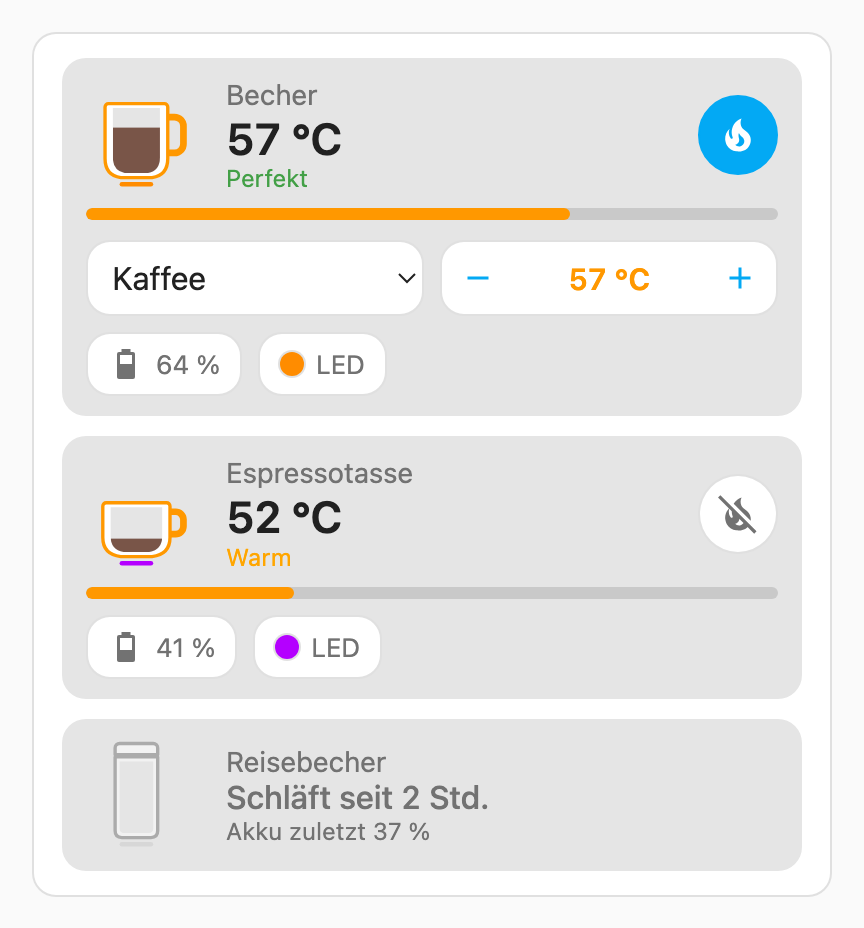
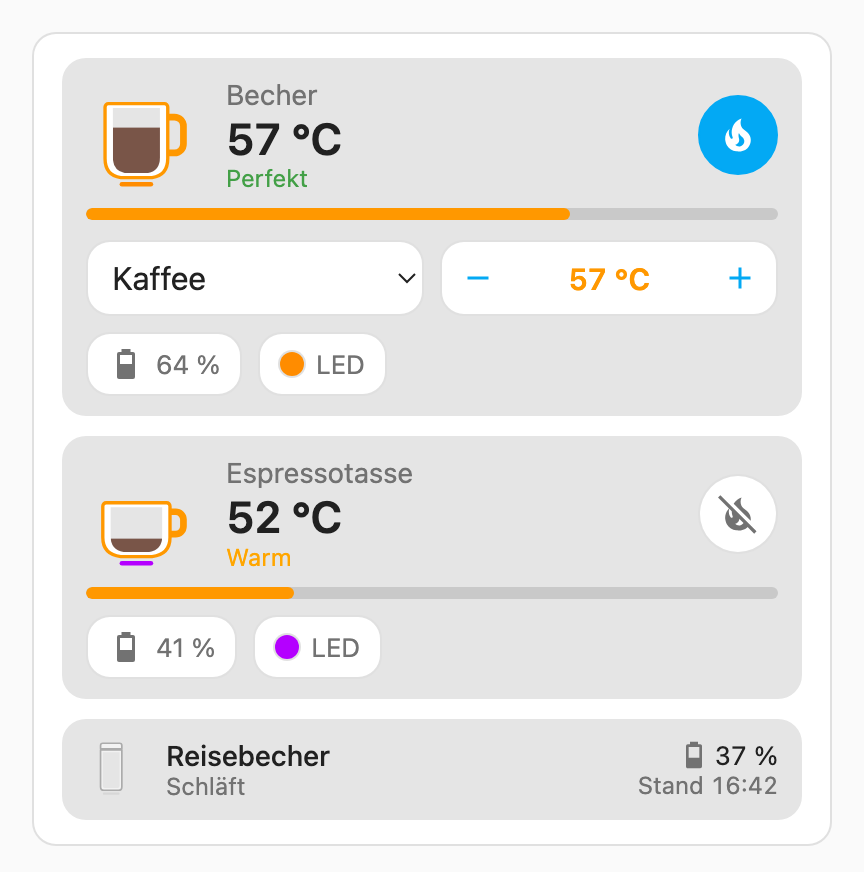
Asleep devices in one panel with the last battery level from the recorder; options show_sleeping, compact_empty, max_columns, target_step

Changed region(s): [[0.0625, 0.0619, 0.9375, 0.9289], [0.0625, 0.9599, 0.9375, 0.9908]]

diff --git a/ember-card.js b/ember-card.js
@@ -6,7 +6,7 @@
  * from the Home Assistant theme.
  */
 
-const CARD_VERSION = "0.1.0";
+const CARD_VERSION = "0.1.1";
 const PLATFORM = "ember_mug";
 const PARTS = ["picture", "level", "keep_warm", "target", "presets", "battery", "led"];
 
@@ -23,8 +23,7 @@ const TEXT = {
     st_warm_no_control: "Warm",
     st_unknown: "Connecting …",
     asleep: "Asleep",
-    asleep_for: "Asleep for {when}",
-    last_battery: "Battery was at {value}",
+    as_of: "as of {when}",
     target: "Target {value}",
     keep_warm: "Keep warm",
     keep_warm_on: "Keep warm: on",
@@ -46,7 +45,11 @@ const TEXT = {
     error: "Could not change it: {msg}",
     ed_title: "Title",
     ed_devices: "Devices (empty = all)",
-    ed_hide_sleeping: "Hide devices that are asleep",
+    ed_show_sleeping: "Show devices that are asleep",
+    ed_compact_empty: "Empty devices as a short row",
+    ed_more: "More options",
+    ed_max_columns: "Columns at most",
+    ed_target_step: "Step for the target temperature",
     ed_hide: "Hide parts",
     ed_hide_picture: "Picture",
     ed_hide_level: "Fill level",
@@ -68,8 +71,7 @@ const TEXT = {
     st_warm_no_control: "Warm",
     st_unknown: "Verbinde …",
     asleep: "Schläft",
-    asleep_for: "Schläft seit {when}",
-    last_battery: "Akku zuletzt {value}",
+    as_of: "Stand {when}",
     target: "Ziel {value}",
     keep_warm: "Warmhalten",
     keep_warm_on: "Warmhalten: an",
@@ -91,7 +93,11 @@ const TEXT = {
     error: "Änderung fehlgeschlagen: {msg}",
     ed_title: "Titel",
     ed_devices: "Geräte (leer = alle)",
-    ed_hide_sleeping: "Schlafende Geräte ausblenden",
+    ed_show_sleeping: "Schlafende Geräte zeigen",
+    ed_compact_empty: "Leere Geräte als schmale Zeile",
+    ed_more: "Weitere Einstellungen",
+    ed_max_columns: "Höchstens so viele Spalten",
+    ed_target_step: "Schrittweite der Zieltemperatur",
     ed_hide: "Teile ausblenden",
     ed_hide_picture: "Bild",
     ed_hide_level: "Füllstand",
@@ -169,6 +175,7 @@ class EmberCard extends HTMLElement {
     this._pending = {}; // deviceId → { target, at } and `${id}:led` → { rgb, at }
     this._timers = {};
     this._error = "";
+    this._lastBattery = {}; // deviceId → last battery level before it fell asleep (null = none found)
 
     this.shadowRoot.addEventListener("click", (e) => {
       const el = e.target.closest("[data-act]");
@@ -207,12 +214,23 @@ class EmberCard extends HTMLElement {
       schema: [
         { name: "title", selector: { text: {} } },
         { name: "devices", selector: { device: { multiple: true, filter: { integration: PLATFORM } } } },
-        { name: "hide_sleeping", default: false, selector: { boolean: {} } },
+        { name: "show_sleeping", default: true, selector: { boolean: {} } },
+        { name: "compact_empty", default: false, selector: { boolean: {} } },
         {
           name: "hide",
           selector: {
             select: { multiple: true, mode: "list", options: PARTS.map((p) => ({ value: p, label: uiText(`ed_hide_${p}`) })) },
           },
+        },
+        {
+          type: "expandable",
+          name: "more",
+          title: uiText("ed_more"),
+          flatten: true,
+          schema: [
+            { name: "max_columns", default: 3, selector: { number: { min: 1, max: 3, mode: "box" } } },
+            { name: "target_step", selector: { number: { min: 0.1, max: 5, step: 0.1, mode: "box" } } },
+          ],
         },
       ],
       computeLabel: (schema) => uiText(`ed_${schema.name}`),
@@ -233,8 +251,11 @@ class EmberCard extends HTMLElement {
 
   setConfig(config) {
     this._config = {
-      hide_sleeping: false,
+      compact_empty: false,
       ...config,
+      // hide_sleeping is the name from 0.1.x
+      show_sleeping: config.show_sleeping ?? !config.hide_sleeping,
+      max_columns: Math.min(3, Math.max(1, Number(config.max_columns) || 3)),
       devices: [].concat(config.devices || config.device_id || []),
       hide: [].concat(config.hide || []),
     };
@@ -245,15 +266,6 @@ class EmberCard extends HTMLElement {
   set hass(hass) {
     this._hass = hass;
     this._update();
-  }
-
-  connectedCallback() {
-    // keeps "asleep for 5 min" current
-    this._ticker = setInterval(() => this._refresh(), 60000);
-  }
-
-  disconnectedCallback() {
-    clearInterval(this._ticker);
   }
 
   _refresh() {
@@ -302,24 +314,50 @@ class EmberCard extends HTMLElement {
     return !!st && st.state !== "unavailable";
   }
 
-  // ---- last known battery (per browser, only for the asleep row) ------------
+  // ---- last battery level of a device that is asleep ------------------------
+  // Asleep, the integration reports every entity as unavailable; the last level
+  // before that comes from the recorder, once per sleep.
 
-  _remember(dev) {
-    const bat = this._st(dev, "battery_percent");
-    if (!bat || OFF.includes(bat.state)) return;
+  async _fetchLastBattery(dev) {
+    const id = dev.e.battery_percent;
+    if (!id || dev.id in this._lastBattery) return;
+    this._lastBattery[dev.id] = null;
     try {
-      localStorage.setItem(`ember-card:${dev.id}`, JSON.stringify({ battery: Number(bat.state) }));
+      const start = new Date(Date.now() - 30 * 86400000).toISOString();
+      const res = await this._hass.callWS({
+        type: "history/history_during_period",
+        start_time: start,
+        entity_ids: [id],
+        minimal_response: true,
+        no_attributes: true,
+        significant_changes_only: false,
+      });
+      const rows = res?.[id] || [];
+      for (let i = rows.length - 1; i >= 0; i--) {
+        const v = Number(rows[i].s ?? rows[i].state);
+        if (rows[i].s !== "unavailable" && Number.isFinite(v)) {
+          const t = rows[i].lu ?? rows[i].last_updated;
+          this._lastBattery[dev.id] = { value: v, at: typeof t === "number" ? t * 1000 : Date.parse(t) };
+          break;
+        }
+      }
+      // Asleep for longer than the recorder keeps its history: take the last
+      // hour of the long-term statistics instead.
+      if (this._lastBattery[dev.id] == null) {
+        const stats = await this._hass.callWS({
+          type: "recorder/statistics_during_period",
+          start_time: new Date(Date.now() - 365 * 86400000).toISOString(),
+          statistic_ids: [id],
+          period: "hour",
+          types: ["mean"],
+        });
+        const last = (stats?.[id] || []).at(-1);
+        if (Number.isFinite(last?.mean)) this._lastBattery[dev.id] = { value: last.mean, at: last.end };
+      }
     } catch (_) {
-      /* storage blocked: the asleep row simply shows less */
+      /* no history (recorder off or no access): the row just says asleep */
     }
-  }
-
-  _recall(dev) {
-    try {
-      return JSON.parse(localStorage.getItem(`ember-card:${dev.id}`) || "{}");
-    } catch (_) {
-      return {};
-    }
+    this._refresh();
   }
 
   // ---- actions ---------------------------------------------------------------
@@ -342,7 +380,8 @@ class EmberCard extends HTMLElement {
   _limits(dev) {
     const a = this._st(dev, "target_temp")?.attributes || {};
     const fahrenheit = String(a.unit_of_measurement || "").includes("F");
-    const step = Number(a.step) > 0 && Number(a.step) < 1 ? Number(a.step) : fahrenheit ? 1 : 0.5;
+    const own = Number(this._config.target_step);
+    const step = own > 0 ? own : Number(a.step) > 0 && Number(a.step) < 1 ? Number(a.step) : fahrenheit ? 1 : 0.5;
     return { min: Number(a.min ?? 48.8), max: Number(a.max ?? 63), step, unit: a.unit_of_measurement || "°C" };
   }
 
@@ -406,20 +445,28 @@ class EmberCard extends HTMLElement {
     if (sig === this._sig) return;
     this._sig = sig;
 
-    devices.forEach((d) => this._awake(d) && this._remember(d));
-    const shown = devices.filter((d) => !this._config.hide_sleeping || this._awake(d));
-    // awake devices first, the asleep ones as short rows below
-    shown.sort((a, b) => this._awake(b) - this._awake(a));
-    this._lastCount = shown.length;
+    const show = this._config.show_sleeping;
+    for (const d of devices) {
+      if (this._awake(d)) delete this._lastBattery[d.id];
+      else if (show && this._shows("battery")) this._fetchLastBattery(d);
+    }
+    // In use: full panels. Resting (asleep, or empty if wished): one quiet panel of short rows.
+    const compact = (d) => this._config.compact_empty && this._st(d, "state")?.state === "empty";
+    const active = devices.filter((d) => this._awake(d) && !compact(d));
+    const resting = devices.filter((d) => (this._awake(d) ? compact(d) : show));
+    resting.sort((a, b) => this._awake(b) - this._awake(a));
+    this._lastCount = active.length + Math.ceil(resting.length / 3);
+    const shown = active.length + resting.length;
 
-    let body;
+    let body = "";
     if (!devices.length) body = `<div class="note">${this._t("no_device")}</div>`;
-    else body = `<div class="list">${shown.map((d) => (this._awake(d) ? this._renderAwake(d) : this._renderAsleep(d))).join("")}</div>`;
+    if (active.length) body += `<div class="list cols-${this._config.max_columns}">${active.map((d) => this._renderAwake(d)).join("")}</div>`;
+    if (resting.length) body += `<div class="rest">${resting.map((d) => this._renderRow(d)).join("")}</div>`;
 
     const title = this._config.title ? `<div class="title">${esc(this._config.title)}</div>` : "";
     const err = this._error ? `<div class="msg" role="alert">${esc(this._error)}</div>` : "";
     this.shadowRoot.innerHTML = `<style>${this._css()}</style>
-      <ha-card class="${devices.length && !shown.length ? "hidden" : ""}">${title}${body}${err}</ha-card>`;
+      <ha-card class="${devices.length && !shown ? "hidden" : ""}">${title}${body}${err}</ha-card>`;
   }
 
   _num(st) {
@@ -429,15 +476,6 @@ class EmberCard extends HTMLElement {
   _fmtTemp(v, unit) {
     if (v == null) return "–";
     return `${new Intl.NumberFormat(this._hass.language, { maximumFractionDigits: 1 }).format(v)} ${unit}`;
-  }
-
-  // "2 Std." / "2 hr" since a timestamp
-  _since(iso) {
-    const ms = Date.now() - new Date(iso).getTime();
-    if (!Number.isFinite(ms)) return "";
-    const min = Math.max(1, Math.round(ms / 60000));
-    const [v, unit] = min < 60 ? [min, "minute"] : min < 2880 ? [Math.round(min / 60), "hour"] : [Math.round(min / 1440), "day"];
-    return new Intl.NumberFormat(this._hass.language, { style: "unit", unit, unitDisplay: "short" }).format(v);
   }
 
   _batIcon(v, charging) {
@@ -454,24 +492,52 @@ class EmberCard extends HTMLElement {
     return `<div class="pic ${asleep ? "asleep" : ""}">${this._mugSvg(dev, asleep ? 0 : level, asleep ? null : rgb)}</div>`;
   }
 
-  _renderAsleep(dev) {
-    const st = this._st(dev, "state");
-    const last = this._recall(dev);
-    const status = st?.last_changed ? this._t("asleep_for", { when: this._since(st.last_changed) }) : this._t("asleep");
-    const sub =
-      this._shows("battery") && Number.isFinite(last.battery)
-        ? `<div class="sub">${this._t("last_battery", { value: `${Math.round(last.battery)} %` })}</div>`
-        : "";
+  // "Stand 16:39" / "Stand 21.02." / "Stand 21.02.2025"
+  _asOf(ms) {
+    const at = new Date(ms);
+    const now = new Date();
+    const opts =
+      at.toDateString() === now.toDateString()
+        ? { hour: "2-digit", minute: "2-digit" }
+        : at.getFullYear() === now.getFullYear()
+          ? { day: "2-digit", month: "2-digit" }
+          : { day: "2-digit", month: "2-digit", year: "numeric" };
+    return this._t("as_of", { when: new Intl.DateTimeFormat(this._hass.language, opts).format(at) });
+  }
+
+  // A resting device: asleep, or awake but empty (with compact_empty).
+  _renderRow(dev) {
+    const awake = this._awake(dev);
+    let battery = "";
+    if (this._shows("battery")) {
+      if (awake) {
+        const bat = this._st(dev, "battery_percent");
+        const v = this._num(bat);
+        const charging = bat?.attributes?.battery_charging === true || this._st(dev, "power")?.state === "on";
+        if (bat && v != null) {
+          battery = `<button class="bat" data-act="more" data-entity="${bat.entity_id}" aria-label="${this._t(charging ? "charging" : "battery")}: ${Math.round(v)} %">
+            <span class="bat-v"><ha-icon icon="${this._batIcon(v, charging)}"></ha-icon>${Math.round(v)} %</span>
+            ${charging ? `<span class="bat-t">${this._t("charging")}</span>` : ""}</button>`;
+        }
+      } else {
+        const last = this._lastBattery[dev.id];
+        if (Number.isFinite(last?.value)) {
+          // the battery drains while asleep, so the value always says when it was read
+          battery = `<div class="bat">
+            <span class="bat-v"><ha-icon icon="${this._batIcon(last.value, false)}"></ha-icon>${Math.round(last.value)} %</span>
+            ${Number.isFinite(last.at) ? `<span class="bat-t">${this._asOf(last.at)}</span>` : ""}</div>`;
+        }
+      }
+    }
+    const status = awake ? this._t("st_empty") : this._t("asleep");
     return `
-      <div class="dev asleep">
-        <div class="head">
-          ${this._pic(dev, 0, null, true)}
-          <div class="text">
-            <div class="name">${esc(dev.name)}</div>
-            <div class="status quiet">${esc(status)}</div>
-            ${sub}
-          </div>
+      <div class="row ${awake ? "" : "asleep"}">
+        ${this._pic(dev, 0, null, !awake)}
+        <div class="text">
+          <div class="r-name">${esc(dev.name)}</div>
+          <div class="sub">${status}</div>
         </div>
+        ${battery}
       </div>`;
   }
 
@@ -595,15 +661,30 @@ class EmberCard extends HTMLElement {
       .title { font-size: 16px; font-weight: 500; margin: 2px 2px 10px; }
       .note { color: var(--secondary-text-color); padding: 4px; }
       .list { display: grid; grid-template-columns: minmax(0, 1fr); gap: 10px; align-items: start; }
-      @container (min-width: 620px) { .list { grid-template-columns: repeat(2, minmax(0, 1fr)); } }
-      @container (min-width: 960px) { .list { grid-template-columns: repeat(3, minmax(0, 1fr)); } }
+      @container (min-width: 620px) { .list:not(.cols-1) { grid-template-columns: repeat(2, minmax(0, 1fr)); } }
+      @container (min-width: 960px) { .list.cols-3 { grid-template-columns: repeat(3, minmax(0, 1fr)); } }
+
+      /* resting devices: one quiet panel, a short row each */
+      .rest { padding: 2px 12px; border-radius: var(--ha-card-border-radius, 12px); background: var(--secondary-background-color); }
+      .list + .rest { margin-top: 10px; }
+      .row { display: grid; grid-template-columns: 28px minmax(0, 1fr) auto; column-gap: 12px; align-items: center; padding: 8px 0; }
+      .row + .row { border-top: 1px solid var(--divider-color); }
+      .row .pic, .row .icon { width: 28px; }
+      .row .icon { --mdc-icon-size: 22px; }
+      .r-name { font-size: 14px; font-weight: 500; overflow: hidden; text-overflow: ellipsis; white-space: nowrap; }
+      .bat { all: unset; display: flex; flex-direction: column; align-items: flex-end; font-size: 13px; color: var(--secondary-text-color);
+        font-variant-numeric: tabular-nums; }
+      button.bat { cursor: pointer; padding: 2px 6px; margin-right: -6px; border-radius: 8px; }
+      button.bat:hover { background: var(--card-background-color); }
+      .bat-v { display: inline-flex; align-items: center; gap: 2px; color: var(--primary-text-color); }
+      .bat-v ha-icon { --mdc-icon-size: 16px; color: var(--secondary-text-color); }
+      .bat-t { font-size: 12px; }
 
       .dev { padding: 10px 12px; border-radius: var(--ha-card-border-radius, 12px); background: var(--secondary-background-color); }
       .head { display: grid; grid-template-columns: 56px minmax(0, 1fr) auto; column-gap: 14px; align-items: center; }
       .text { display: flex; flex-direction: column; min-width: 0; }
       .name { font-size: 14px; color: var(--secondary-text-color); line-height: 1.2; overflow: hidden; text-overflow: ellipsis; white-space: nowrap; }
       .status { font-size: 22px; line-height: 1.2; font-weight: 600; font-variant-numeric: tabular-nums; }
-      .status.quiet { font-size: 16px; font-weight: 500; color: var(--secondary-text-color); }
       .sub { font-size: 12px; color: var(--secondary-text-color); }
       .icon { --mdc-icon-size: 40px; color: var(--secondary-text-color); display: flex; justify-content: center; }
       .bar { grid-column: 1 / -1; margin-top: 8px; height: 6px; border-radius: 3px; background: var(--divider-color); overflow: hidden; }

diff --git a/README.md b/README.md
@@ -11,7 +11,7 @@ A Lovelace card for Ember mugs, cups, tumblers and travel mugs set up with the [
 - **Presets:** a drop-down with the presets you set up in the integration. If the target matches none of them, it says "Custom".
 - **Battery:** level and whether it is charging; tap it for the history.
 - **LED:** the current color; tap it to pick a new one.
-- **Asleep:** an Ember only reports while it is awake. A device that is asleep gets a short row with how long it has been asleep and its last battery level, or it is left out with `hide_sleeping`.
+- **Asleep:** an Ember only reports while it is awake. Devices that are asleep are listed together below the others, one short row each, with the last battery level and when it was read (from the recorder, so it shows on every device). Leave them out with `show_sleeping: false`.
 
 Target and presets are only shown while keep warm is on. On a wide card the devices sit next to each other.
 
@@ -50,8 +50,11 @@ type: custom:ember-card
 |---|---|---|
 | `title` | – | Title above the devices |
 | `devices` | all | Devices to show, in this order (device IDs; the visual editor lets you pick them) |
-| `hide_sleeping` | `false` | Leave out devices that are asleep instead of showing a short row |
+| `show_sleeping` | `true` | Show devices that are asleep as short rows; `false` leaves them out |
+| `compact_empty` | `false` | Show devices that are awake but empty (e.g. on the coaster) as a short row too, without controls |
 | `hide` | – | Parts to hide: `picture`, `level`, `keep_warm`, `target`, `presets`, `battery`, `led` |
+| `max_columns` | `3` | Columns at most on a wide card; `1` keeps the devices below each other |
+| `target_step` | `0.5` (°C), `1` (°F) | Step of the minus and plus buttons for the target temperature |
 
 For example, one card per device without the LED button:
 
